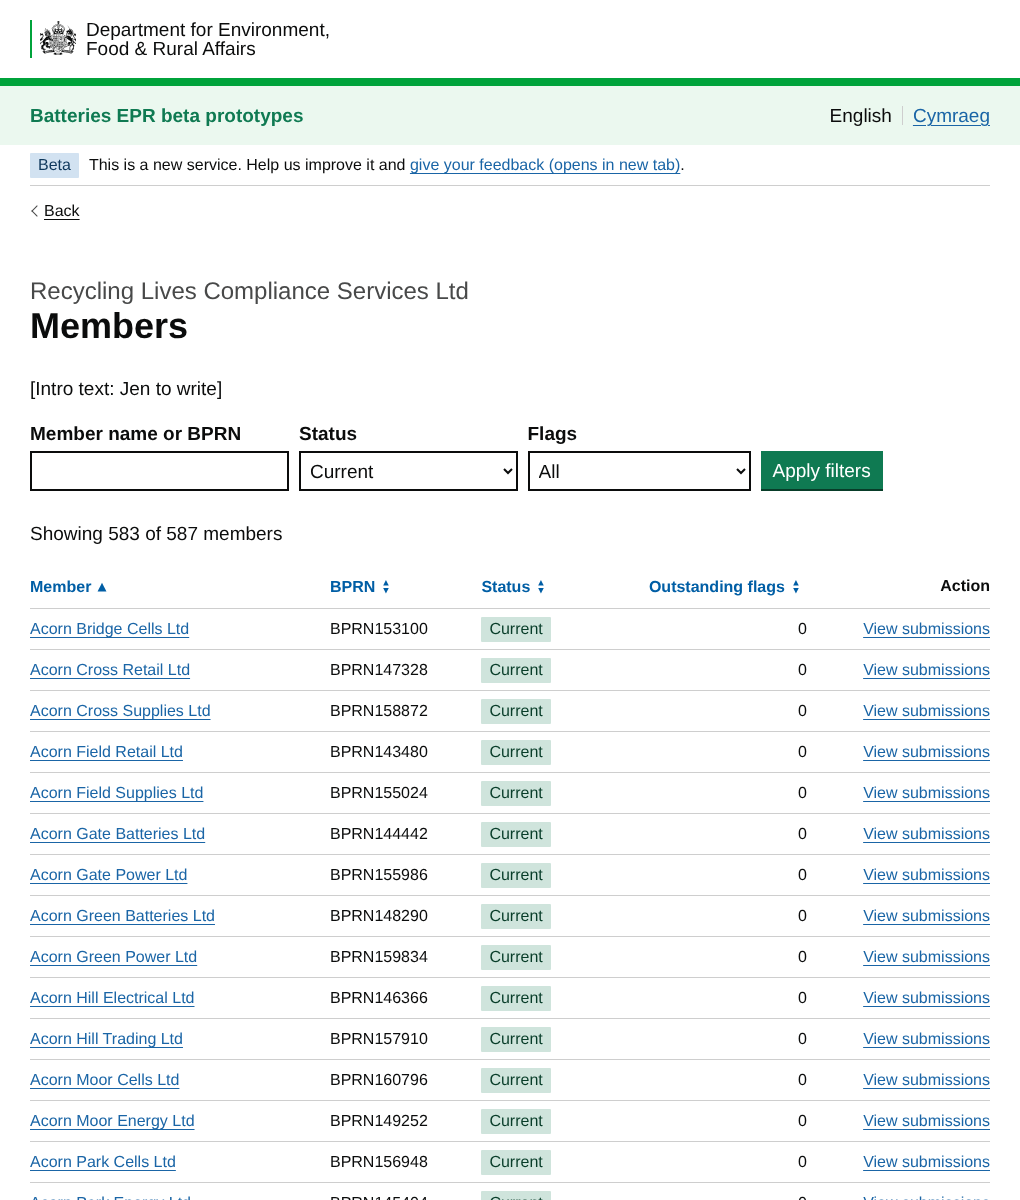
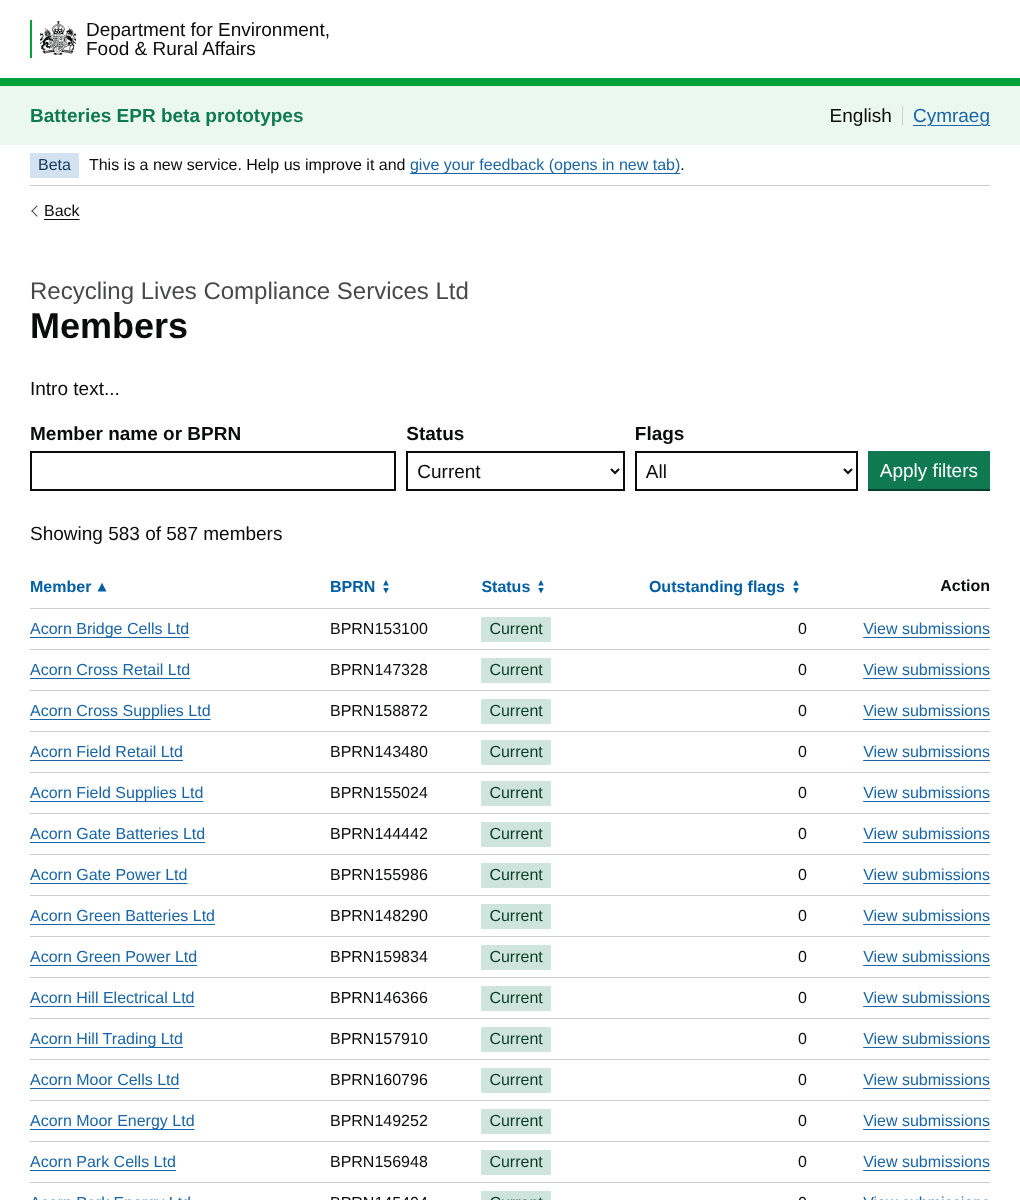
EB-326 full: wider name or BPRN field, Clear filters with Apply in a button group; Intro text placeholder
Claude-Session: https://claude.ai/code/session_014pBrKbgm5Jfdzkw7drhM9g

diff --git a/app/views/changes/add-members-page.html b/app/views/changes/add-members-page.html
@@ -18,11 +18,11 @@
 <p class="govuk-body"><strong>How many members to design for</strong></p>
 <p class="govuk-body">Between 200 and 600. Regulators told us this is realistic in round 2 of alpha testing (participants 1 and 2). David said 20 to 250 today, maybe 500 later, so 200 to 600 covers both. The dummy schemes have between 214 and 583 current members.</p>
 <p class="govuk-body"><strong>Both versions</strong></p>
-<ul class="govuk-list govuk-list--bullet"><li>The scheme name as a caption, &quot;Members&quot; as the heading, and an intro line from Jen (to write)</li><li>A sortable table (MOJ sortable table), alphabetical by member, in 16px text and the MOJ scrollable pane: member (a link to their organisation details), BPRN, status, outstanding flags in this submission, and View submissions</li><li>Status as a tag, current in green and former in grey, so it's easy to skim down a long list. The word is there too, so it doesn't rely on colour</li><li>From &quot;View members&quot; on the submission or the organisation details. Back goes to whichever you came from</li><li>Left out, as agreed with Jen: producer size (only large producers join schemes), date joined, Download CSV, View scheme record</li></ul>
+<ul class="govuk-list govuk-list--bullet"><li>The scheme name as a caption, &quot;Members&quot; as the heading, and an intro line from Jen (to write: &quot;Intro text...&quot; for now)</li><li>A sortable table (MOJ sortable table), alphabetical by member, in 16px text and the MOJ scrollable pane: member (a link to their organisation details), BPRN, status, outstanding flags in this submission, and View submissions</li><li>Status as a tag, current in green and former in grey, so it's easy to skim down a long list. The word is there too, so it doesn't rely on colour</li><li>From &quot;View members&quot; on the submission or the organisation details. Back goes to whichever you came from</li><li>Left out, as agreed with Jen: producer size (only large producers join schemes), date joined, Download CSV, View scheme record</li></ul>
 <p class="govuk-body"><strong>Brief version: everything on one page</strong></p>
 <ul class="govuk-list govuk-list--bullet"><li>Every member, current and former, with no filters</li><li>Simple, but finding one producer among 600 means scrolling or using the browser's find. Research will tell us if that's good enough</li></ul>
 <p class="govuk-body"><strong>Full version: filters</strong></p>
-<ul class="govuk-list govuk-list--bullet"><li>Based on the <a href="https://design-patterns.service.justice.gov.uk/patterns/filter-a-list" class="govuk-link" rel="noreferrer noopener" target="_blank">MOJ filter a list pattern (opens in new tab)</a>, which DfE also recommends after <a href="https://dfedigital.blog.gov.uk/2025/03/03/applying-filters-consistently-in-dfe" class="govuk-link" rel="noreferrer noopener" target="_blank">looking at filters across government (opens in new tab)</a></li><li>Member name or BPRN (free text), to find one member quickly</li><li>Status: current, former or all. Current by default, so former members don't pad the list</li><li>Flags: all, or outstanding flags only</li><li>An Apply filters button: the page only reloads when they choose to, as <a href="https://w3c.github.io/wcag/understanding/on-input.html" class="govuk-link" rel="noreferrer noopener" target="_blank">WCAG 3.2.2 On Input (opens in new tab)</a> asks, and it works without JavaScript</li><li>A line saying what's showing, for example &quot;Showing 3 of 587 members&quot;</li></ul>
+<ul class="govuk-list govuk-list--bullet"><li>Based on the <a href="https://design-patterns.service.justice.gov.uk/patterns/filter-a-list" class="govuk-link" rel="noreferrer noopener" target="_blank">MOJ filter a list pattern (opens in new tab)</a>, which DfE also recommends after <a href="https://dfedigital.blog.gov.uk/2025/03/03/applying-filters-consistently-in-dfe" class="govuk-link" rel="noreferrer noopener" target="_blank">looking at filters across government (opens in new tab)</a></li><li>Member name or BPRN (free text), to find one member quickly. It's the widest field, so long names fit, and full width on a phone</li><li>Status: current, former or all. Current by default, so former members don't pad the list</li><li>Flags: all, or outstanding flags only</li><li>Clear filters, a secondary button, when the filters aren't the defaults. It sits with Apply filters in a GOV.UK button group, so the two stay together when the row wraps</li><li>An Apply filters button: the page only reloads when they choose to, as <a href="https://w3c.github.io/wcag/understanding/on-input.html" class="govuk-link" rel="noreferrer noopener" target="_blank">WCAG 3.2.2 On Input (opens in new tab)</a> asks, and it works without JavaScript</li><li>A line saying what's showing, for example &quot;Showing 3 of 587 members&quot;</li></ul>
 <p class="govuk-body"><strong>Why there's no pagination</strong></p>
 <ul class="govuk-list govuk-list--bullet"><li>The <a href="https://design-system.service.gov.uk/components/pagination" class="govuk-link" rel="noreferrer noopener" target="_blank">GOV.UK pagination guidance (opens in new tab)</a> says to only split a list into pages if it makes the service faster or easier to use: when one page would be slow to load, or when most people only need the first page. 600 short rows load quickly, and regulators need the whole list, not just the first page</li><li>Sorting and pagination don't work together in the browser: the MOJ sortable table would only sort the rows on the page you're on, which would be wrong. On one page, sorting covers every member</li><li>The full version's filters cut the list down, so people don't have to scroll through hundreds of rows</li><li>If the real data is slow, the fallback is pagination with sorting done on the server (column headers as links that reload the page in the new order, which also works without JavaScript). GOV.UK says filters and sorting must then apply to the whole list, not just one page</li></ul>
 <p class="govuk-body"><strong>Prototype only</strong></p>
@@ -52,10 +52,10 @@
 <img src="/public/images/changes/add-members-page/after--members-full-1020-pixels.png" alt="Full version, desktop (1020 pixels wide), top of the page" class="app-change-screenshot">
 </div>
 </div>
-<h2 class="govuk-heading-m">Full version, filtered to outstanding flags only, desktop (1020 pixels wide)</h2>
+<h2 class="govuk-heading-m">Full version, filtered by name, desktop (1020 pixels wide)</h2>
 <div class="govuk-grid-row">
 <div class="govuk-grid-column-two-thirds">
-<img src="/public/images/changes/add-members-page/after--members-full-filtered-1020-pixels.png" alt="Full version, filtered to outstanding flags only, desktop (1020 pixels wide)" class="app-change-screenshot">
+<img src="/public/images/changes/add-members-page/after--members-full-filtered-1020-pixels.png" alt="Full version, filtered by name, desktop (1020 pixels wide)" class="app-change-screenshot">
 </div>
 </div>
 <h2 class="govuk-heading-m">Full version, 320 pixels wide, top of the page</h2>

diff --git a/app/views/regulator/pom-submission/members-full.html b/app/views/regulator/pom-submission/members-full.html
@@ -11,6 +11,11 @@
   - Status: Current (the default, so former members don't pad the list),
     Former or All
   - Flags: All, or Outstanding flags only
+  - Clear filters (a secondary button, only when the filters aren't the
+    defaults): back to the page with no filters. It sits with Apply filters
+    in a GOV.UK button group, so the two stay together when the row wraps
+  - Member name or BPRN grows to fill its line (app-filters__grow), so long
+    names fit, and it's full width on a phone
   - Apply filters: a plain form (GET) with a button, so it works without
     JavaScript and the page doesn't reload while someone is choosing
     (WCAG 3.2.2)
@@ -76,10 +81,17 @@
     {# The filters: GOV.UK input, selects and button in a row (add-on: app-filters, see application.scss) #}
     <form method="get" action="{{ formAction }}" novalidate>
       <div class="app-filters">
-        {{ govukInput({ id: "search", name: "search", value: filters.search, label: { text: words.searchLabel, classes: "govuk-label--s" }, classes: "govuk-input--width-20", spellcheck: false }) }}
+        {{ govukInput({ id: "search", name: "search", value: filters.search, label: { text: words.searchLabel, classes: "govuk-label--s" }, classes: "govuk-!-width-full", formGroup: { classes: "app-filters__grow" }, spellcheck: false }) }}
         {{ govukSelect({ id: "status", name: "status", label: { text: words.statusLabel, classes: "govuk-label--s" }, classes: "govuk-!-width-full", items: statusItems }) }}
         {{ govukSelect({ id: "flags", name: "flags", label: { text: words.flagsLabel, classes: "govuk-label--s" }, classes: "govuk-!-width-full", items: flagItems }) }}
-        {{ govukButton({ text: words.applyFiltersButton }) }}
+        {# Apply and Clear stay together in a GOV.UK button group. Clear filters
+           only shows when the filters aren't the defaults #}
+        <div class="govuk-button-group">
+          {{ govukButton({ text: words.applyFiltersButton }) }}
+          {% if filters.search or filters.status != "current" or filters.flags != "all" %}
+            {{ govukButton({ text: words.clearFiltersButton, href: formAction, classes: "govuk-button--secondary" }) }}
+          {% endif %}
+        </div>
       </div>
     </form>
 

diff --git a/app/assets/sass/application.scss b/app/assets/sass/application.scss
@@ -50,7 +50,9 @@ $govuk-font-family-print: var(--app-font-family-print, sans-serif);
 // a fixed gap, and wrap onto a new line when there isn't room, so they never
 // squash into each other (a GOV.UK select won't go narrower than 11.5em).
 // The button lines up with the bottom of the dropdowns. On a phone, each one
-// is full width, one under the other. Used on the PoM submissions pages.
+// is full width, one under the other. Used on the PoM submissions pages and
+// the members page (full version), where a free-text field grows to fill its
+// line and the two buttons stay together.
 .app-filters {
   display: flex;
   flex-wrap: wrap;
@@ -64,9 +66,25 @@ $govuk-font-family-print: var(--app-font-family-print, sans-serif);
     @include govuk-responsive-margin(6, "bottom", $adjustment: 2px);
   }
 
+  // Two buttons (Apply filters and Clear filters) go in a GOV.UK button
+  // group, so they stay together when the row wraps. The group's own bottom
+  // margin isn't needed here: the buttons line up with the fields
+  .govuk-button-group {
+    margin-bottom: 0;
+  }
+
   @include govuk-media-query($until: tablet) {
     > * {
       flex-basis: 100%;
+    }
+  }
+
+  // A free-text field (app-filters__grow on its form group) takes the space
+  // that's left on its line, so long names fit. From tablet up: on a phone
+  // everything is full width anyway
+  @include govuk-media-query($from: tablet) {
+    .app-filters__grow {
+      flex: 1 1 20em;
     }
   }
 }

diff --git a/README.md b/README.md
@@ -102,7 +102,7 @@ developers should build, and the ones that only make the prototype work.
 
 #### Filters in a row
 
-- **What it does:** puts filter dropdowns and their button side by side with a fixed 10px gap, wrapping onto a new line when there isn't room. The button lines up with the bottom of the dropdowns. Full width, one under the other, on a phone
+- **What it does:** puts filter dropdowns and their button side by side with a fixed 10px gap, wrapping onto a new line when there isn't room. The button lines up with the bottom of the dropdowns. Full width, one under the other, on a phone. A free-text field can grow to fill its line (`app-filters__grow`), and two buttons (Apply and Clear filters) stay together in a GOV.UK button group
 - **Why:** a GOV.UK select won't go narrower than 11.5em, so in grid columns they squashed into each other at some widths
 - **Where:** the `app-filters` style in `app/assets/sass/application.scss`. Used on the placed on the market submissions pages and the members page (full version)
 - **Added by:** Marie Moyles, November 2026

diff --git a/app/content/regulator/members-full.md b/app/content/regulator/members-full.md
@@ -11,7 +11,7 @@ Back
 Members
 
 ## Intro (paragraphs welcome)
-[Intro text: Jen to write]
+Intro text...
 
 ## Search label
 Member name or BPRN
@@ -36,6 +36,9 @@ Outstanding flags only
 
 ## Apply filters button
 Apply filters
+
+## Clear filters button
+Clear filters
 
 ## Showing (before the numbers, for example "Showing 3 of 587 members")
 Showing

diff --git a/app/content/regulator/members-brief.md b/app/content/regulator/members-brief.md
@@ -11,7 +11,7 @@ Back
 Members
 
 ## Intro (paragraphs welcome)
-[Intro text: Jen to write]
+Intro text...
 
 ## Table caption (only screen readers hear this)
 Members of the scheme
